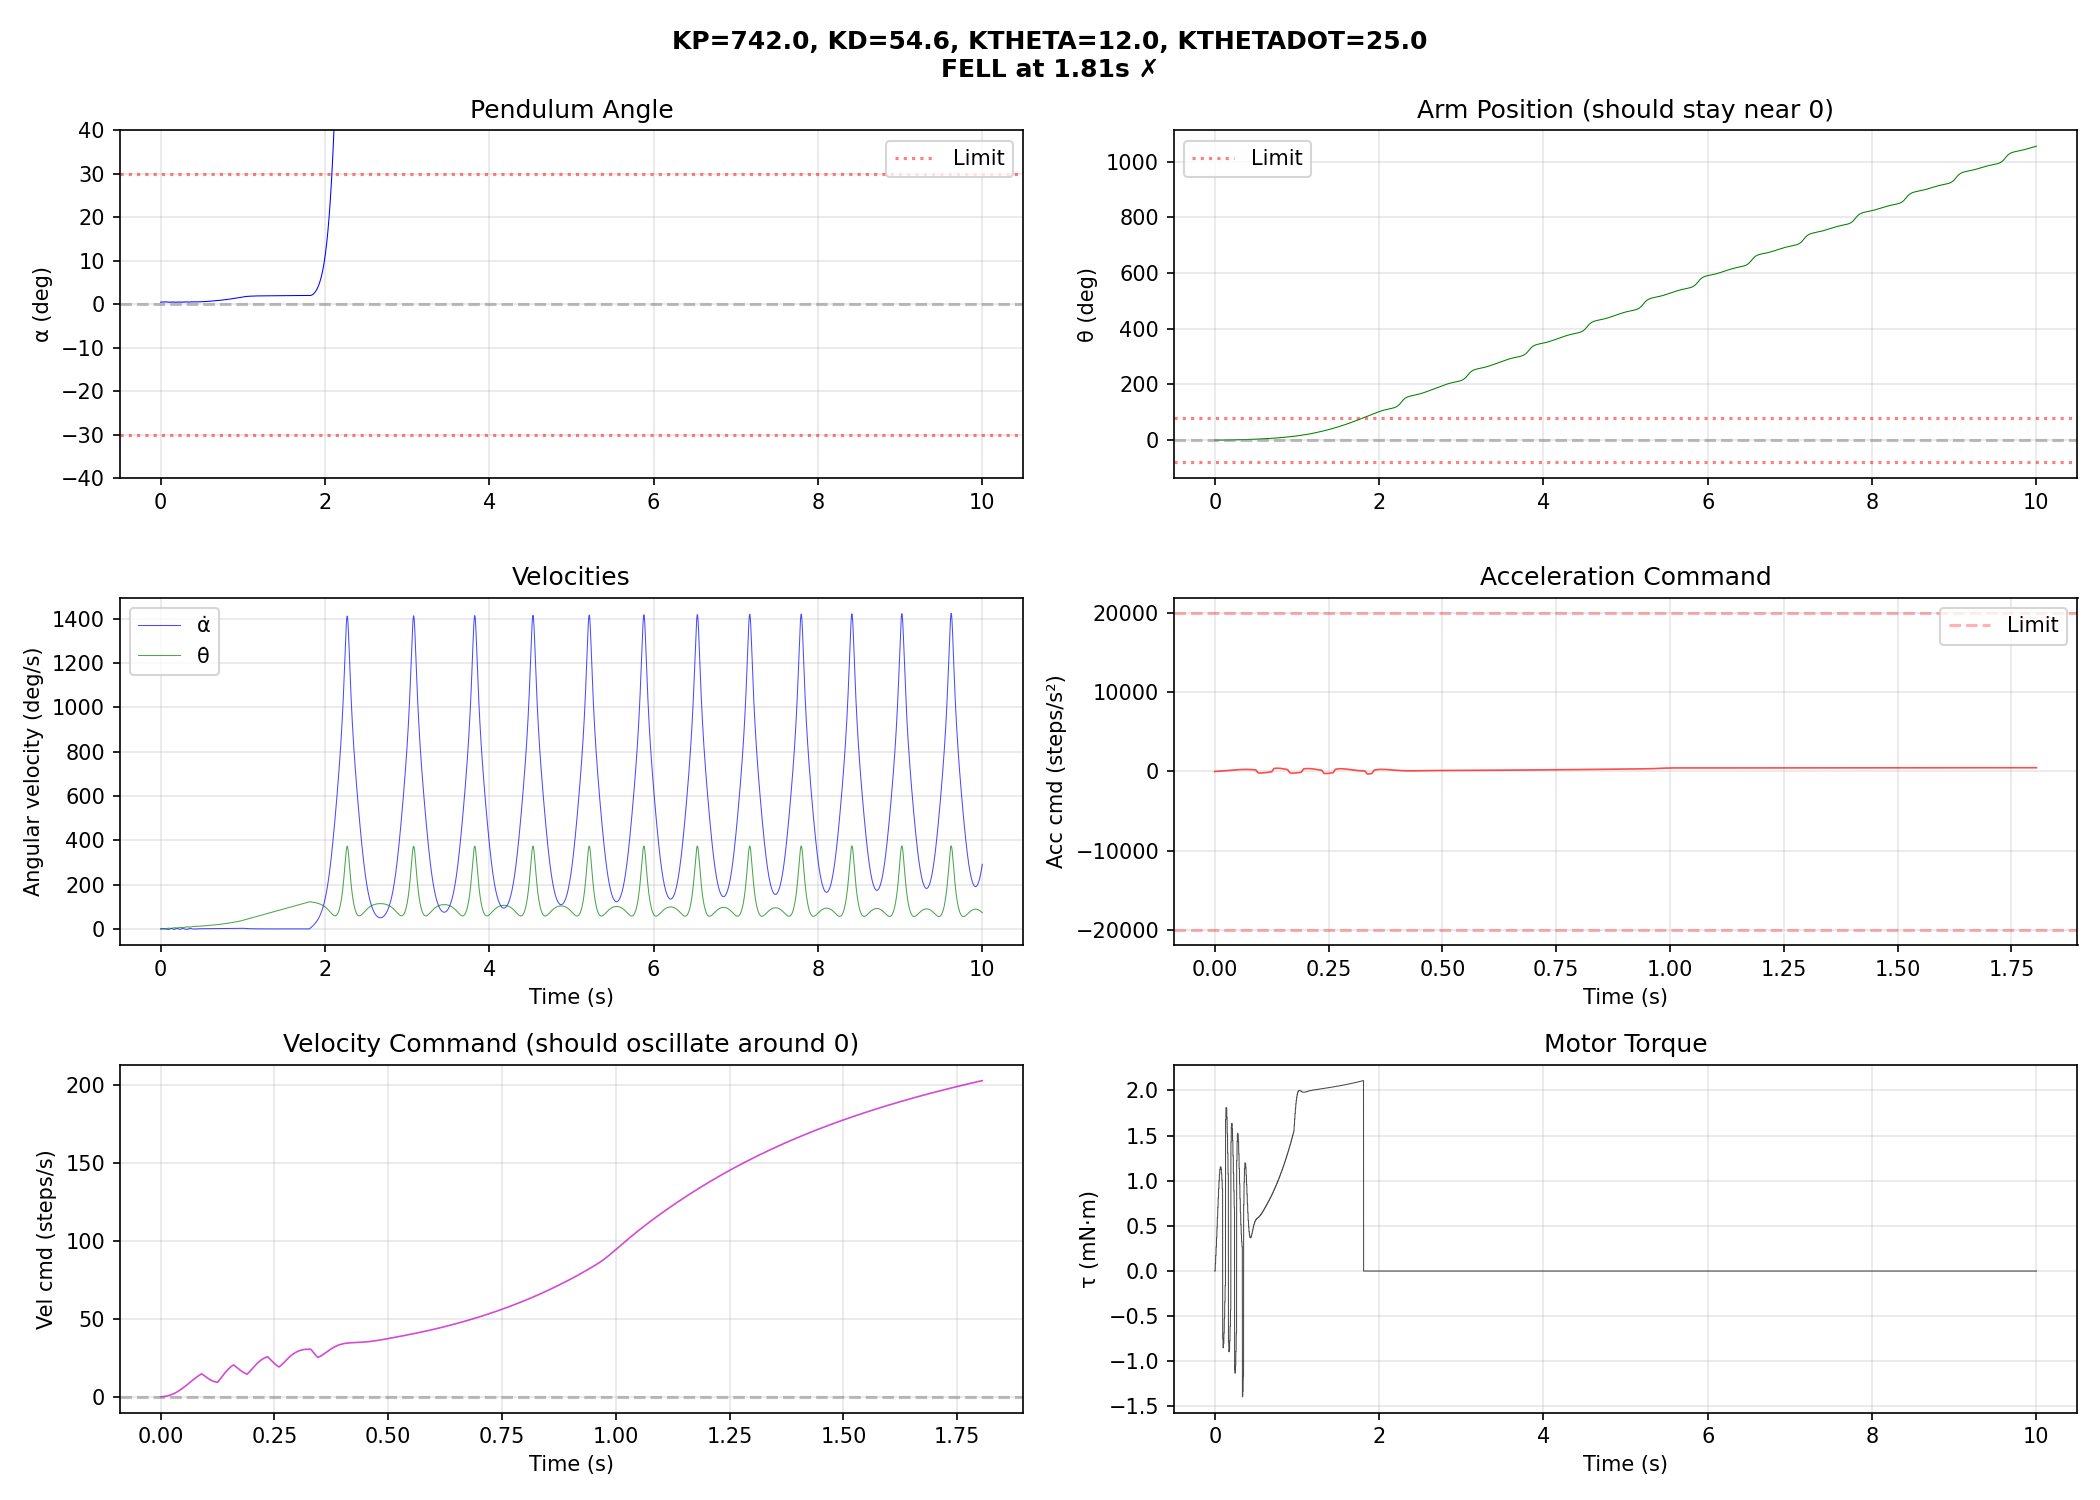
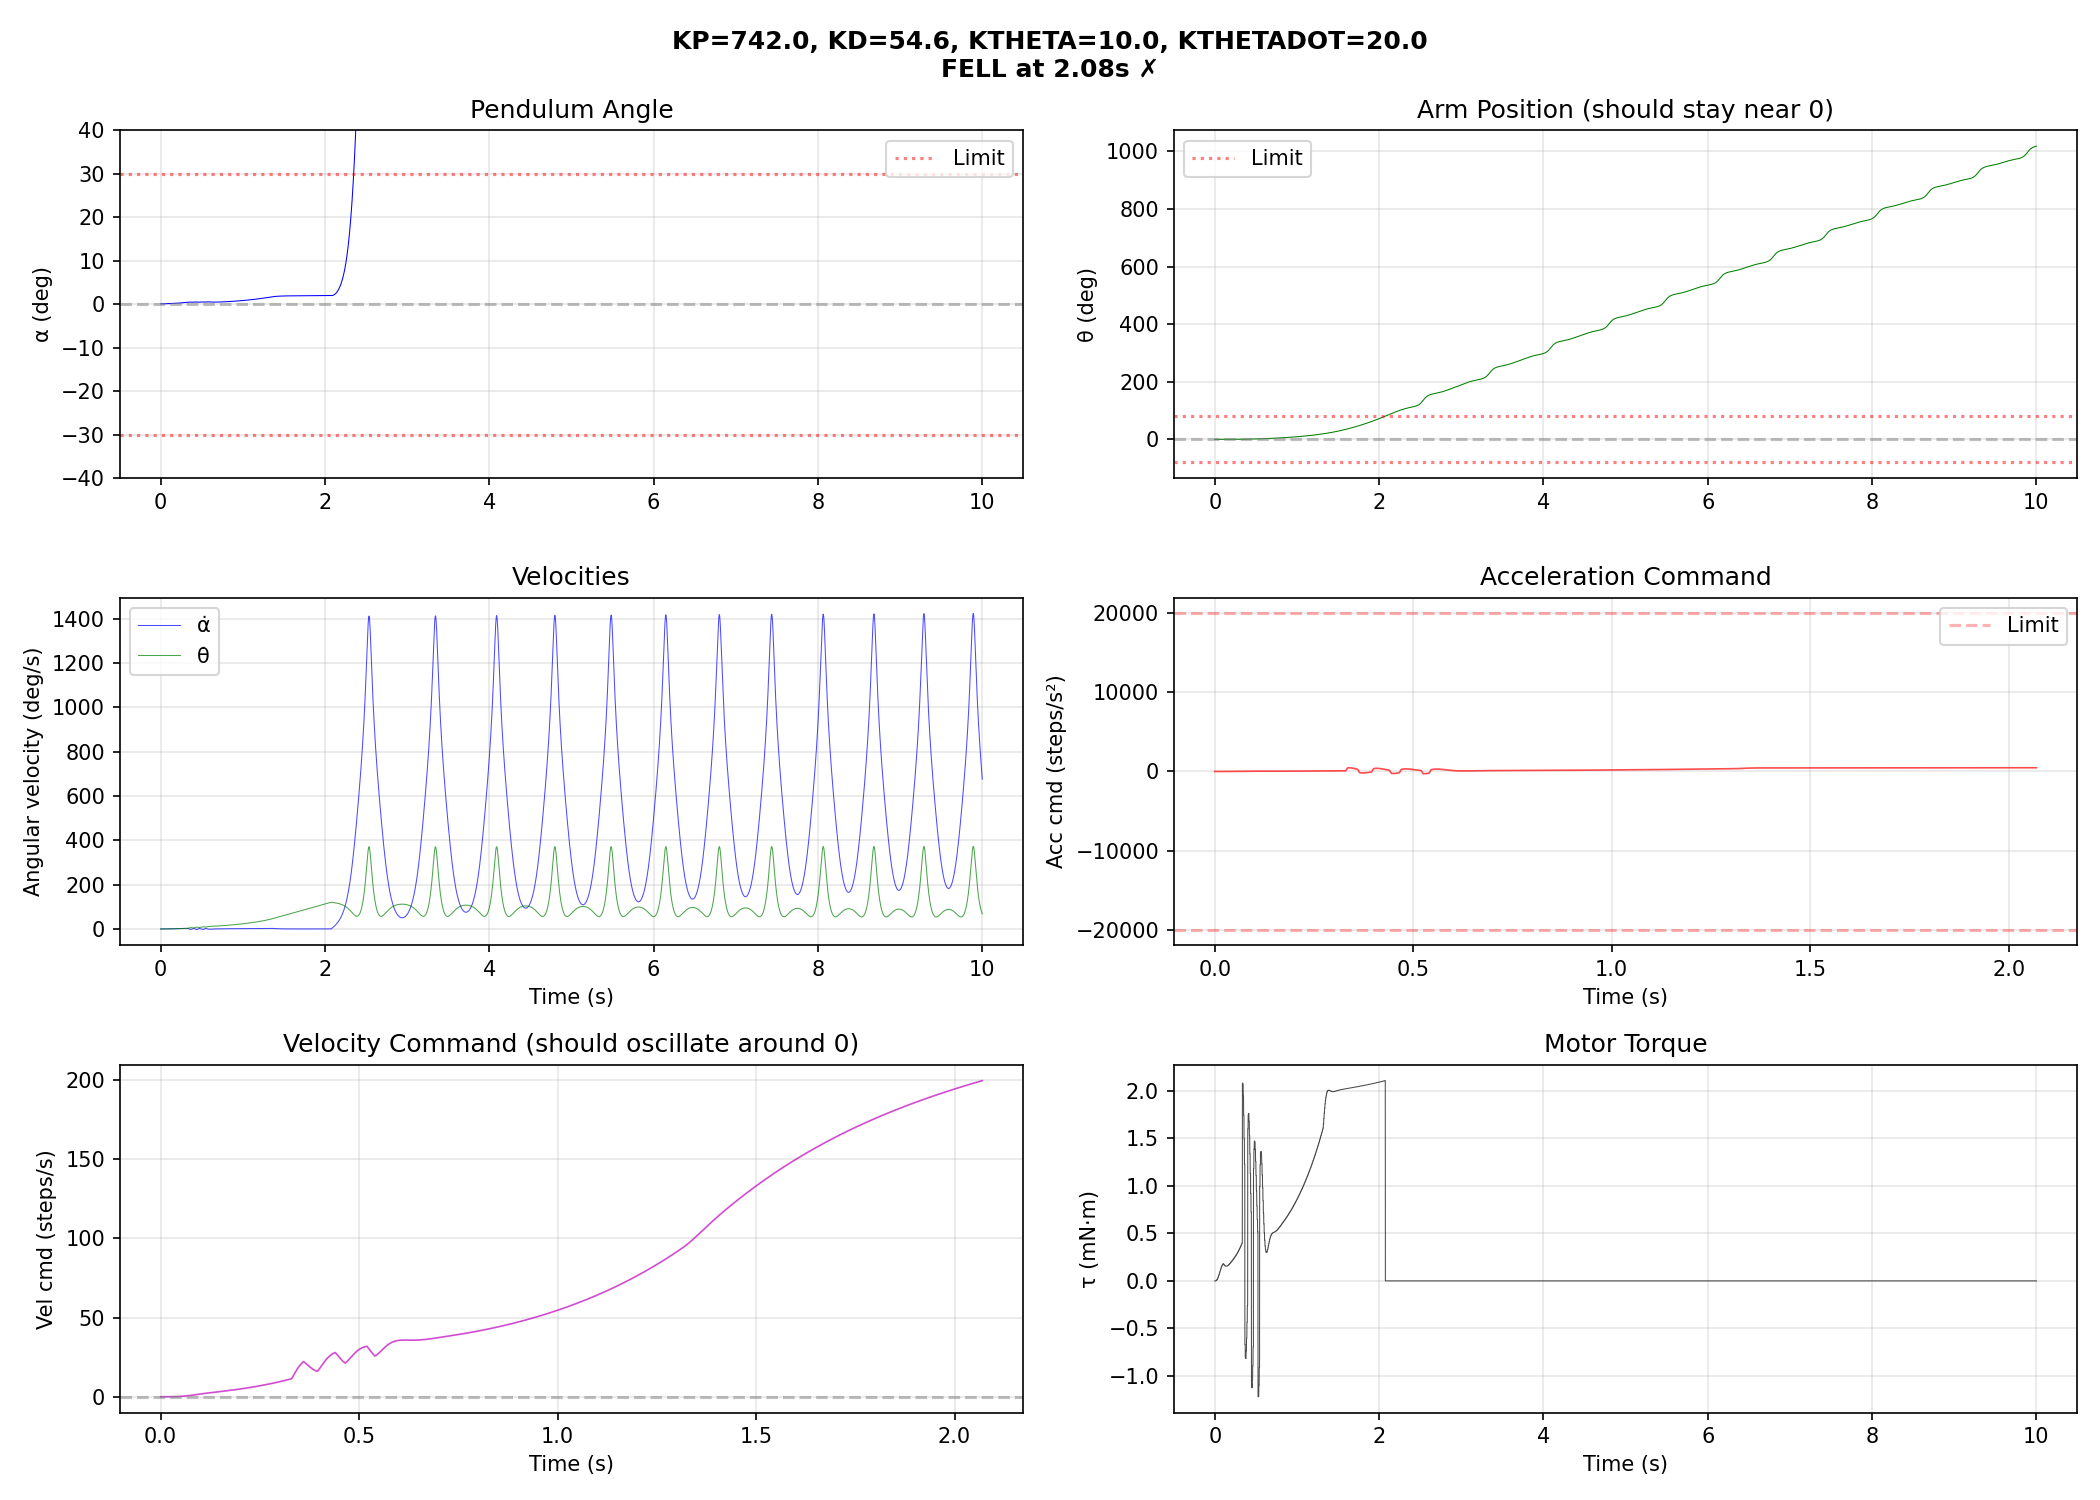
Implement full-state feedback control gains and update legacy gain handling for improved pendulum stabilization

diff --git a/src/main.cpp b/src/main.cpp
@@ -20,24 +20,29 @@ const float ALPHADOT_CLAMP = 300.0f;   // deg/s
 const float THETADOT_CLAMP = 300.0f;   // deg/s safety clamp for base rate
 const float ALPHA_DEADBAND_DEG = 0.5f; // reduce sensor noise chasing
 
-// Gains
-float ACC_KP = 742.0f;
+// Full-state feedback gains (from Section 11.7 of modelling_complete.md)
+// Control law: ddot_theta = K_THETA*theta + K_ALPHA*alpha + K_THETADOT*thetaDot + K_ALPHADOT*alphaDot
+float K_THETA     = -9.92f;    // steps/s² per deg (base position gain)
+float K_ALPHA     = -858.4f;   // steps/s² per deg (pendulum angle gain)
+float K_THETADOT  = -20.9f;    // steps/s² per deg/s (base velocity gain)
+float K_ALPHADOT  = -69.9f;    // steps/s² per deg/s (pendulum velocity gain)
+
+// Legacy gains (kept for backward compatibility with serial commands)
+float ACC_KP = 742.0f;   // Equivalent to inner loop if needed
 float ACC_KD = 54.6f;
 float ACC_KI = 0.0f;
+float KTHETA = 5.0f;     // Equivalent to outer loop if needed
+float KTHETADOT = 10.0f;
 float KV_THETA = 0.0f;
 
 float D_FILT_ALPHA = 0.35f;
+float D_FILT_THETA = 0.20f;
 bool  filterFirst  = true;
 bool  derivInit    = false;
 
-// Outer loop (base centering)
-float KTHETA      = 5.0f;
-float KTHETADOT   = 10.0f;
-float D_FILT_THETA = 0.20f;
-
 float ALPHA_GATE_DEG = 18.0f;
 const float OUTER_MAX_ACC = 1000.0f;
-bool outerLoopEnabled = true;
+bool outerLoopEnabled = true;  // Use full-state feedback when true
 
 // Optional: velocity leak (bias killer)
 float VEL_LEAK = 2.0f; // 1/s
@@ -479,13 +484,20 @@ void handleSerial() {
       return;
     }
 
+    // Full-state feedback gain tuning
+    if (c == '1') { float v = Serial.parseFloat(); K_THETA=v; Serial.print("K_THETA="); Serial.println(K_THETA,2); return; }
+    if (c == '2') { float v = Serial.parseFloat(); K_ALPHA=v; Serial.print("K_ALPHA="); Serial.println(K_ALPHA,2); return; }
+    if (c == '4') { float v = Serial.parseFloat(); K_THETADOT=v; Serial.print("K_THETADOT="); Serial.println(K_THETADOT,2); return; }
+    if (c == '5') { float v = Serial.parseFloat(); K_ALPHADOT=v; Serial.print("K_ALPHADOT="); Serial.println(K_ALPHADOT,2); return; }
+
+    // Legacy gain commands (for reference)
     if (c == 'P' || c == 'p') { float v = Serial.parseFloat(); if (v>0) ACC_KP=v; Serial.print("ACC_KP="); Serial.println(ACC_KP,1); return; }
     if (c == 'D' || c == 'd') { float v = Serial.parseFloat(); if (v>0) ACC_KD=v; Serial.print("ACC_KD="); Serial.println(ACC_KD,1); return; }
     if (c == 'I' || c == 'i') { float v = Serial.parseFloat(); if (v>=0) ACC_KI=v; Serial.print("ACC_KI="); Serial.println(ACC_KI,1); return; }
     if (c == 'V' || c == 'v') { float v = Serial.parseFloat(); if (v>=0) KV_THETA=v; Serial.print("KV_THETA="); Serial.println(KV_THETA,2); return; }
     if (c == 'F' || c == 'f') { float v = Serial.parseFloat(); if (v>=0.01f && v<=0.9f) D_FILT_ALPHA=v; Serial.print("D_FILT_ALPHA="); Serial.println(D_FILT_ALPHA,2); return; }
 
-    if (c == 'O' || c == 'o') { outerLoopEnabled = !outerLoopEnabled; Serial.print("outerLoop="); Serial.println(outerLoopEnabled ? "ON" : "OFF"); return; }
+    if (c == 'O' || c == 'o') { outerLoopEnabled = !outerLoopEnabled; Serial.print("stateFeedback="); Serial.println(outerLoopEnabled ? "ON" : "OFF"); return; }
     if (c == 'K' || c == 'k') { float v = Serial.parseFloat(); if (v>=0) KTHETA=v; Serial.print("KTHETA="); Serial.println(KTHETA,1); return; }
     if (c == 'L' || c == 'l') { float v = Serial.parseFloat(); if (v>=0) KTHETADOT=v; Serial.print("KTHETADOT="); Serial.println(KTHETADOT,1); return; }
 
@@ -514,7 +526,7 @@ void setup() {
   stepper->setAcceleration((uint32_t)MAX_ACC_STEPS);
   stepper->disableOutputs();
 
-  Serial.println("--- RIP ACCEL CONTROL (VELOCITY MODE) ---");
+  Serial.println("--- RIP FULL-STATE FEEDBACK (Section 11) ---");
   Serial.println("Commands:");
   Serial.println("  S       -> SIGN DIAGNOSTIC");
   Serial.println("  Z       -> Calibrate (hold pendulum UPRIGHT)");
@@ -525,9 +537,10 @@ void setup() {
   Serial.println("  B       -> Toggle CTRL_SIGN");
   Serial.println("  T       -> Toggle alpha debug prints");
   Serial.println("  J 10    -> Jog test (+10deg)");
-  Serial.println("  P#, D#, I#, F# -> inner loop gains/filter");
-  Serial.println("  O       -> Toggle outer loop");
-  Serial.println("  K#, L#  -> KTHETA, KTHETADOT");
+  Serial.println("  1#, 2#, 4#, 5# -> K_THETA, K_ALPHA, K_THETADOT, K_ALPHADOT");
+  Serial.println("  P#, D#, I#, F# -> Legacy gains (reference)");
+  Serial.println("  O       -> Toggle state feedback");
+  Serial.println("  K#, L#  -> Legacy outer loop gains");
   Serial.println("  X       -> Toggle derivative mode");
   Serial.println("Log: t_ms,alphaRaw100,alphaDot100,theta100,thetaDot100,accCmd,velCmd,posMeasSteps,clamped");
 
@@ -535,9 +548,11 @@ void setup() {
   Serial.print(" ALPHA_SIGN="); Serial.print(ALPHA_SIGN);
   Serial.print(" THETA_SIGN="); Serial.print(THETA_SIGN);
   Serial.print(" CTRL_SIGN="); Serial.println(CTRL_SIGN);
-  Serial.print("OuterLoop="); Serial.print(outerLoopEnabled ? "ON" : "OFF");
-  Serial.print(" KTHETA="); Serial.print(KTHETA);
-  Serial.print(" KTHETADOT="); Serial.println(KTHETADOT);
+  Serial.print("StateFeedback="); Serial.print(outerLoopEnabled ? "ON" : "OFF");
+  Serial.print(" K_THETA="); Serial.print(K_THETA,2);
+  Serial.print(" K_ALPHA="); Serial.print(K_ALPHA,2);
+  Serial.print(" K_THETADOT="); Serial.print(K_THETADOT,2);
+  Serial.print(" K_ALPHADOT="); Serial.println(K_ALPHADOT,2);
 
   lastUs = micros();
 }
@@ -698,20 +713,38 @@ void loop() {
       lastThetaDeg = thetaDeg;
       thetaDotFilt = constrain(thetaDotFilt, -THETADOT_CLAMP, THETADOT_CLAMP);
 
-      // Deadband only for P/I
-      float alphaCtrl = alphaRawSigned;
-      if (fabs(alphaCtrl) < ALPHA_DEADBAND_DEG) alphaCtrl = 0.0f;
-
-      alphaInt += alphaCtrl * dt;
-      alphaInt = constrain(alphaInt, -ALPHA_INT_CLAMP, ALPHA_INT_CLAMP);
-
-      // Acc command (steps/s^2)
-      float accCmdPhysical = CTRL_SIGN * (ACC_KP * alphaCtrl + ACC_KD * alphaDotFilt + ACC_KI * alphaInt);
-
-      if (outerLoopEnabled && fabs(alphaCtrl) < ALPHA_GATE_DEG) {
-        float outer = -(KTHETA * thetaDeg + KTHETADOT * thetaDotFilt);
-        outer = constrain(outer, -OUTER_MAX_ACC, OUTER_MAX_ACC);
-        accCmdPhysical += outer;
+      // ============================================================
+      // FULL-STATE FEEDBACK CONTROLLER (Section 11.7 modelling_complete.md)
+      // Control law: accCmdPhysical = -(K_THETA*theta + K_ALPHA*alpha + K_THETADOT*thetaDot + K_ALPHADOT*alphaDot)
+      // Gains are negative, so overall sign becomes restoring (toward upright + centered)
+      // ============================================================
+      
+      float accCmdPhysical = 0.0f;
+      
+      if (outerLoopEnabled) {
+        // Full-state feedback: single unified control law
+        accCmdPhysical = -(K_THETA * thetaDeg + K_ALPHA * alphaRawSigned + 
+                           K_THETADOT * thetaDotFilt + K_ALPHADOT * alphaDotFilt);
+        
+        // Apply control sign convention
+        accCmdPhysical *= CTRL_SIGN;
+      } else {
+        // Fallback: legacy two-loop controller for comparison
+        float alphaCtrl = alphaRawSigned;
+        if (fabs(alphaCtrl) < ALPHA_DEADBAND_DEG) alphaCtrl = 0.0f;
+        
+        alphaInt += alphaCtrl * dt;
+        alphaInt = constrain(alphaInt, -ALPHA_INT_CLAMP, ALPHA_INT_CLAMP);
+        
+        float inner = CTRL_SIGN * (ACC_KP * alphaCtrl + ACC_KD * alphaDotFilt + ACC_KI * alphaInt);
+        
+        if (fabs(alphaCtrl) < ALPHA_GATE_DEG) {
+          float outer = -(KTHETA * thetaDeg + KTHETADOT * thetaDotFilt);
+          outer = constrain(outer, -OUTER_MAX_ACC, OUTER_MAX_ACC);
+          inner += CTRL_SIGN * outer;
+        }
+        
+        accCmdPhysical = inner;
       }
 
       // ramp on engage
@@ -727,7 +760,10 @@ void loop() {
       if (accCmdPhysical >  MAX_ACC_STEPS) { accCmdPhysical =  MAX_ACC_STEPS; sat = 1; }
       if (accCmdPhysical < -MAX_ACC_STEPS) { accCmdPhysical = -MAX_ACC_STEPS; sat = 1; }
 
-      if (sat) {
+      // Anti-windup for legacy integral term (only used if outerLoopEnabled=false)
+      if (sat && !outerLoopEnabled) {
+        float alphaCtrl = alphaRawSigned;
+        if (fabs(alphaCtrl) < ALPHA_DEADBAND_DEG) alphaCtrl = 0.0f;
         alphaInt -= alphaCtrl * dt;
         alphaInt = constrain(alphaInt, -ALPHA_INT_CLAMP, ALPHA_INT_CLAMP);
       }

diff --git a/simulation/simulate.py b/simulation/simulate.py
@@ -219,11 +219,11 @@ def simulate(kp, kd, ktheta, kthetadot, alpha0_deg=3.0, duration=5.0, outer_sign
                 # Inner loop (pendulum stabilization)
                 accCmdPhysical = CTRL_SIGN * (kp * alphaCtrl + kd * alphaDotFilt + ki * alphaInt)
                 
-                # Outer loop (base centering) - CRITICAL: must apply CTRL_SIGN
+                # Outer loop (base centering) - CURRENT MAIN.CPP (WITHOUT CTRL_SIGN FIX)
                 if abs(alphaCtrl) < ALPHA_GATE_DEG:
                     outer = -(ktheta * thetaDeg + kthetadot * thetaDotFilt)
                     outer = np.clip(outer, -OUTER_MAX_ACC, OUTER_MAX_ACC)
-                    accCmdPhysical += CTRL_SIGN * outer  # KEY FIX: apply CTRL_SIGN
+                    accCmdPhysical += outer  # BUG: missing CTRL_SIGN
                 
                 # Ramp on engage (firmware does this)
                 ramp = (t * 1000 - engage_time_ms) / 100.0  # 100ms ramp
